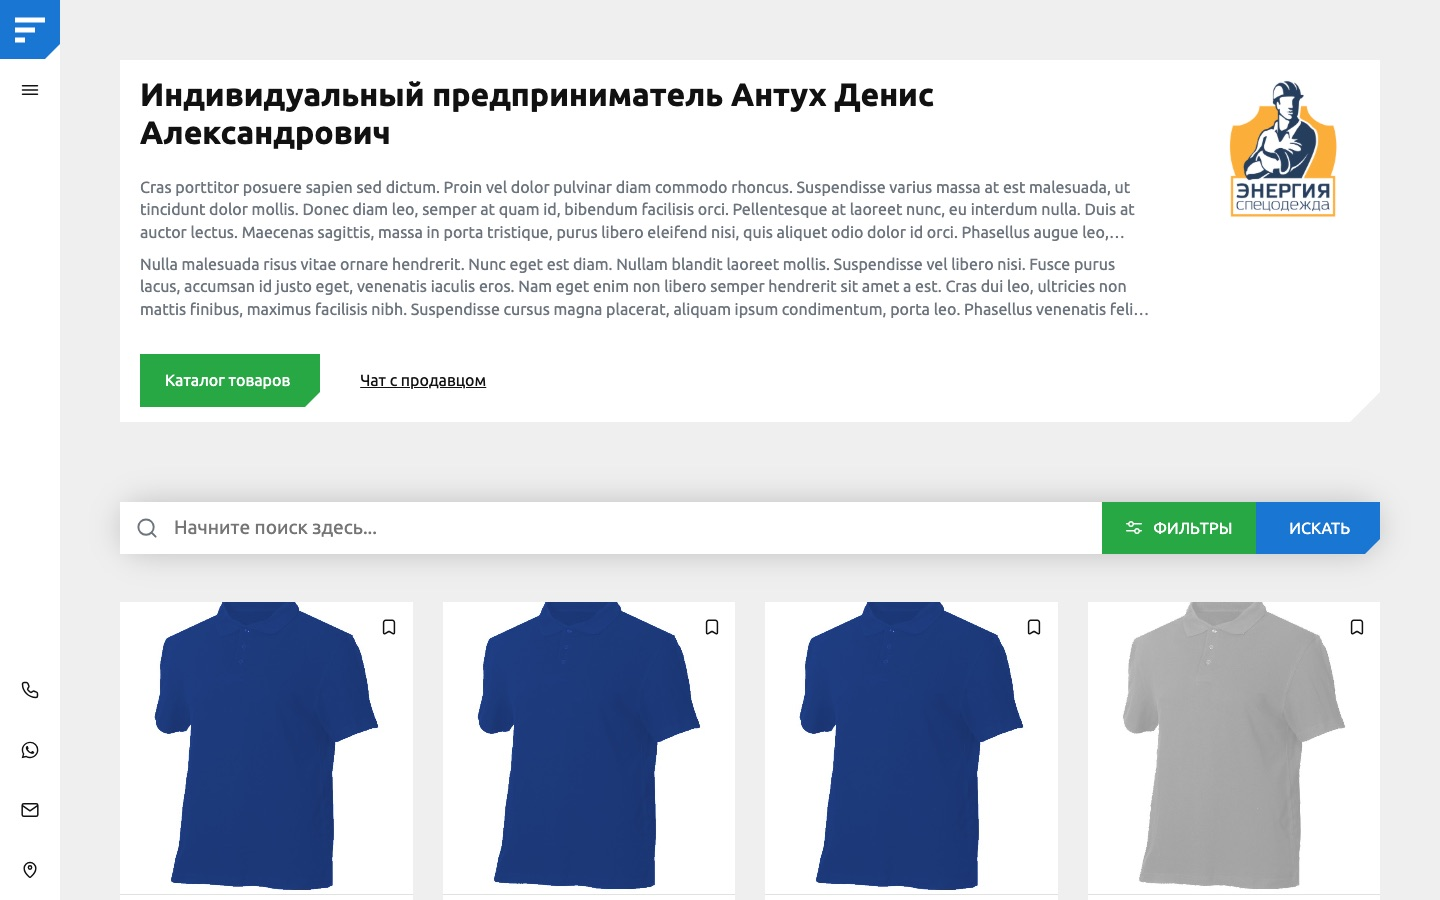
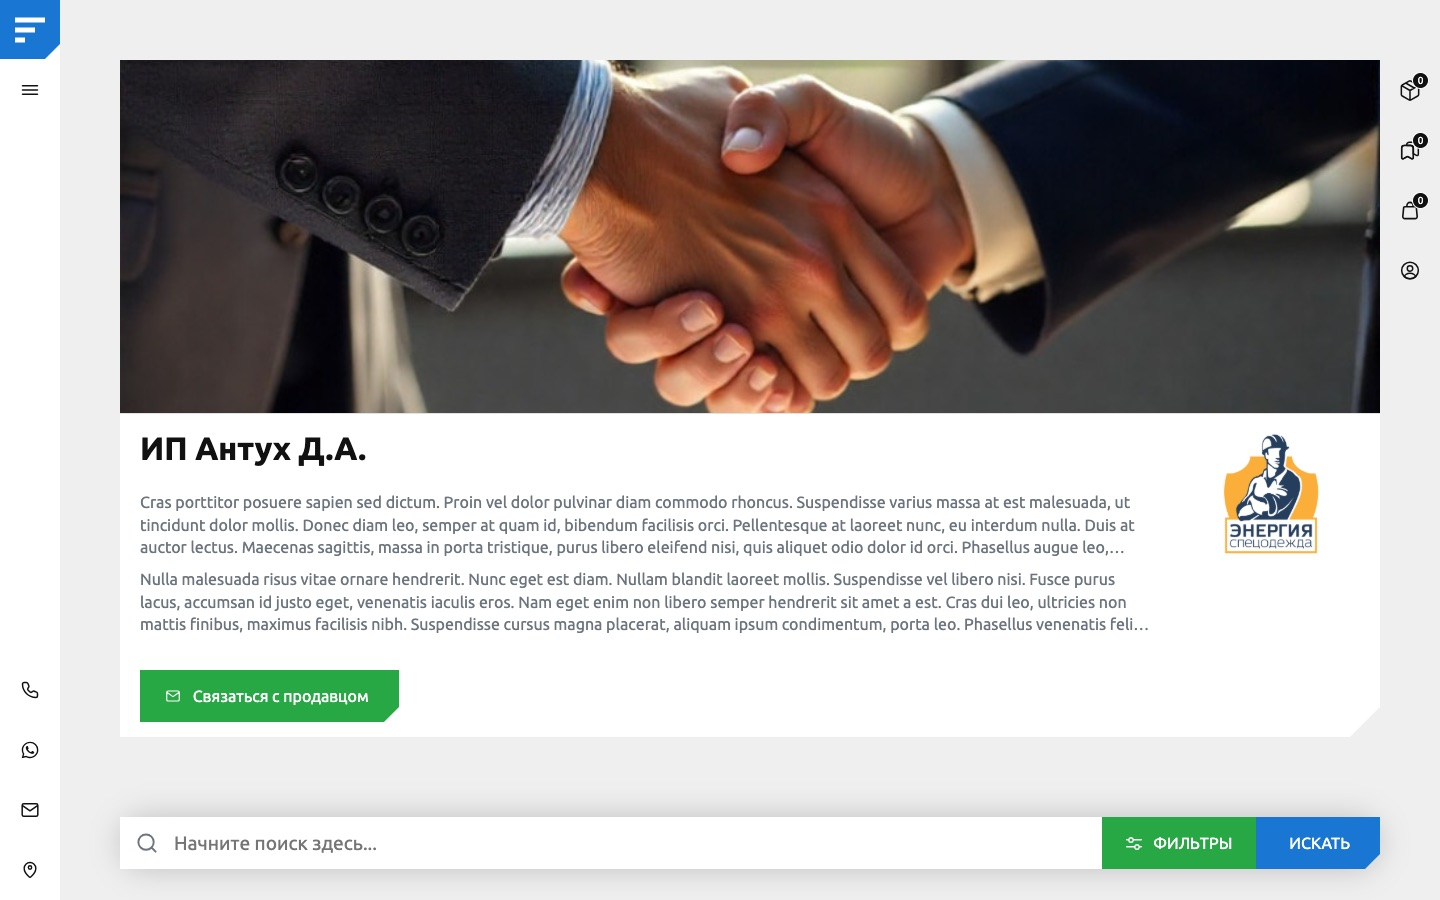
Гайд: раздел партнёра в главе «Партнёры на сайте и регистрация»
Вместо абзаца про старую страницу магазина — раздел «Раздел партнёра»:
- главная партнёра: обложка, краткое название, логотип, «Связаться с
  продавцом», блоки с его товарами и новостями;
- каталог партнёра /partners/<код>/catalog/: только его категории и
  товары, хлебные крошки от главной партнёра;
- панель покупателя (Заказы / Избранное / Корзина / профиль): справа на
  компьютере, внизу на телефоне;
- подписка «Будьте в курсе» на этого партнёра.

Новые скриншоты (сняты без авторизации): partner (переснят),
partner-catalog, partner-section, partner-subscribe, m-partner. Текст
обновлён в data/guide и в элементе на этом сайте.

diff --git a/local/php_interface/migrations/data/guide/100-partners-public.html b/local/php_interface/migrations/data/guide/100-partners-public.html
@@ -1,8 +1,38 @@
-<h2>Список партнёров и страница магазина</h2>
+<h2>Список партнёров</h2>
 <p><a href="/partners/">«Партнёры»</a> — все активные магазины. Новые партнёры также показываются блоком на главной.</p>
 <figure class="guide-shot"><a href="/guide/img/partners.jpg" data-fancybox="guide" data-caption="Список партнёров"><img src="/guide/img/partners.jpg" alt="Список партнёров" loading="lazy"></a><figcaption>Список партнёров</figcaption></figure>
-<p>На странице магазина — обложка, логотип, описание и каталог товаров только этого партнёра с поиском и фильтрами. Там же кнопка «Чат с продавцом».</p>
-<figure class="guide-shot"><a href="/guide/img/partner.jpg" data-fancybox="guide" data-caption="Страница магазина партнёра"><img src="/guide/img/partner.jpg" alt="Страница магазина партнёра" loading="lazy"></a><figcaption>Страница магазина партнёра</figcaption></figure>
+
+<h2>Раздел партнёра</h2>
+<p>У каждого партнёра свой самостоятельный раздел, как отдельный магазин внутри площадки: главная <code>/partners/&lt;код&gt;/</code> и каталог <code>/partners/&lt;код&gt;/catalog/</code>. Шапка сайта здесь скрыта и выезжает при наведении на верх страницы, чтобы ничего не отвлекало от магазина.</p>
+
+<h3>Главная партнёра</h3>
+<figure class="guide-shot"><a href="/guide/img/partner.jpg" data-fancybox="guide" data-caption="Главная партнёра: обложка, краткое название, логотип, «Связаться с продавцом»"><img src="/guide/img/partner.jpg" alt="Главная партнёра: обложка, краткое название, логотип, «Связаться с продавцом»" loading="lazy"></a><figcaption>Главная партнёра: обложка, краткое название, логотип, «Связаться с продавцом»</figcaption></figure>
+<ul>
+<li><b>Обложка</b> сверху карточки (если загружена в кабинете партнёра). На компьютере — невысоким баннером, на телефоне — 16:9.</li>
+<li><b>Название</b> — краткое название партнёра («ИП Антух Д.А.»), если оно заполнено, иначе полное.</li>
+<li><b>Логотип</b> справа и описание.</li>
+<li><b>«Связаться с продавцом»</b> открывает переписку с этим продавцом в «Чатах и сообщениях» покупателя (диалог «Общий вопрос»).</li>
+<li>Ниже — поиск с фильтрами по товарам партнёра, «Выгодные предложения», «Новые поступления», категории с его товарами и его новости. Все ссылки на товары и категории ведут в каталог партнёра.</li>
+</ul>
+
+<h3>Каталог партнёра</h3>
+<p>Устроен как основной <a href="/catalog/">каталог</a>, но только с товарами и категориями этого партнёра: корень с категориями, категории с фильтром и сортировкой, карточки товаров. Категории без его товаров и чужие товары здесь не открываются.</p>
+<figure class="guide-shot"><a href="/guide/img/partner-catalog.jpg" data-fancybox="guide" data-caption="Каталог партнёра: только категории с его товарами"><img src="/guide/img/partner-catalog.jpg" alt="Каталог партнёра: только категории с его товарами" loading="lazy"></a><figcaption>Каталог партнёра: только категории с его товарами</figcaption></figure>
+<p>Хлебные крошки начинаются с главной партнёра, а не с главной сайта: «Главная — Каталог — Категория — Товар», где «Главная» ведёт на <code>/partners/&lt;код&gt;/</code>. Фильтр, сортировка, «Показать ещё», карусели и переключение цвета/размера в карточке товара остаются внутри каталога партнёра.</p>
+<figure class="guide-shot"><a href="/guide/img/partner-section.jpg" data-fancybox="guide" data-caption="Категория в каталоге партнёра: крошки от главной партнёра, фильтр по его товарам"><img src="/guide/img/partner-section.jpg" alt="Категория в каталоге партнёра: крошки от главной партнёра, фильтр по его товарам" loading="lazy"></a><figcaption>Категория в каталоге партнёра: крошки от главной партнёра, фильтр по его товарам</figcaption></figure>
+
+<h3>Панель покупателя</h3>
+<p>Раз шапка скрыта, ссылки покупателя — «Заказы», «Избранное», «Корзина» и профиль — продублированы закреплённой панелью иконок со счётчиками:</p>
+<ul>
+<li>на компьютере и планшете — вертикально у правого края (видна на скриншотах выше), при выезде шапки становится прозрачной;</li>
+<li>на телефоне (уже 768px) — горизонтальной полосой внизу экрана; когда снизу выезжает полоса контактов сайта, панель поднимается над ней.</li>
+</ul>
+<figure class="guide-shot guide-shot--phone"><a href="/guide/img/m-partner.jpg" data-fancybox="guide" data-caption="Главная партнёра на телефоне: панель покупателя внизу"><img src="/guide/img/m-partner.jpg" alt="Главная партнёра на телефоне: панель покупателя внизу" loading="lazy"></a><figcaption>Главная партнёра на телефоне: панель покупателя внизу</figcaption></figure>
+
+<h3>Подписка на партнёра</h3>
+<p>В разделе партнёра блок «Будьте в курсе» подписывает на новости и акции только этого партнёра: выбора темы нет, в подзаголовке — его краткое название. В справочнике «Подписки на рассылку» у таких подписок заполнено поле «Партнёр», а в теме написано «Партнёр: …».</p>
+<figure class="guide-shot"><a href="/guide/img/partner-subscribe.jpg" data-fancybox="guide" data-caption="«Будьте в курсе» в разделе партнёра"><img src="/guide/img/partner-subscribe.jpg" alt="«Будьте в курсе» в разделе партнёра" loading="lazy"></a><figcaption>«Будьте в курсе» в разделе партнёра</figcaption></figure>
+
 
 <h2>Как стать партнёром</h2>
 <p>Страница <a href="/for-partners/become-a-partner/">«Стать партнером»</a> показывает разное в зависимости от посетителя.</p>
